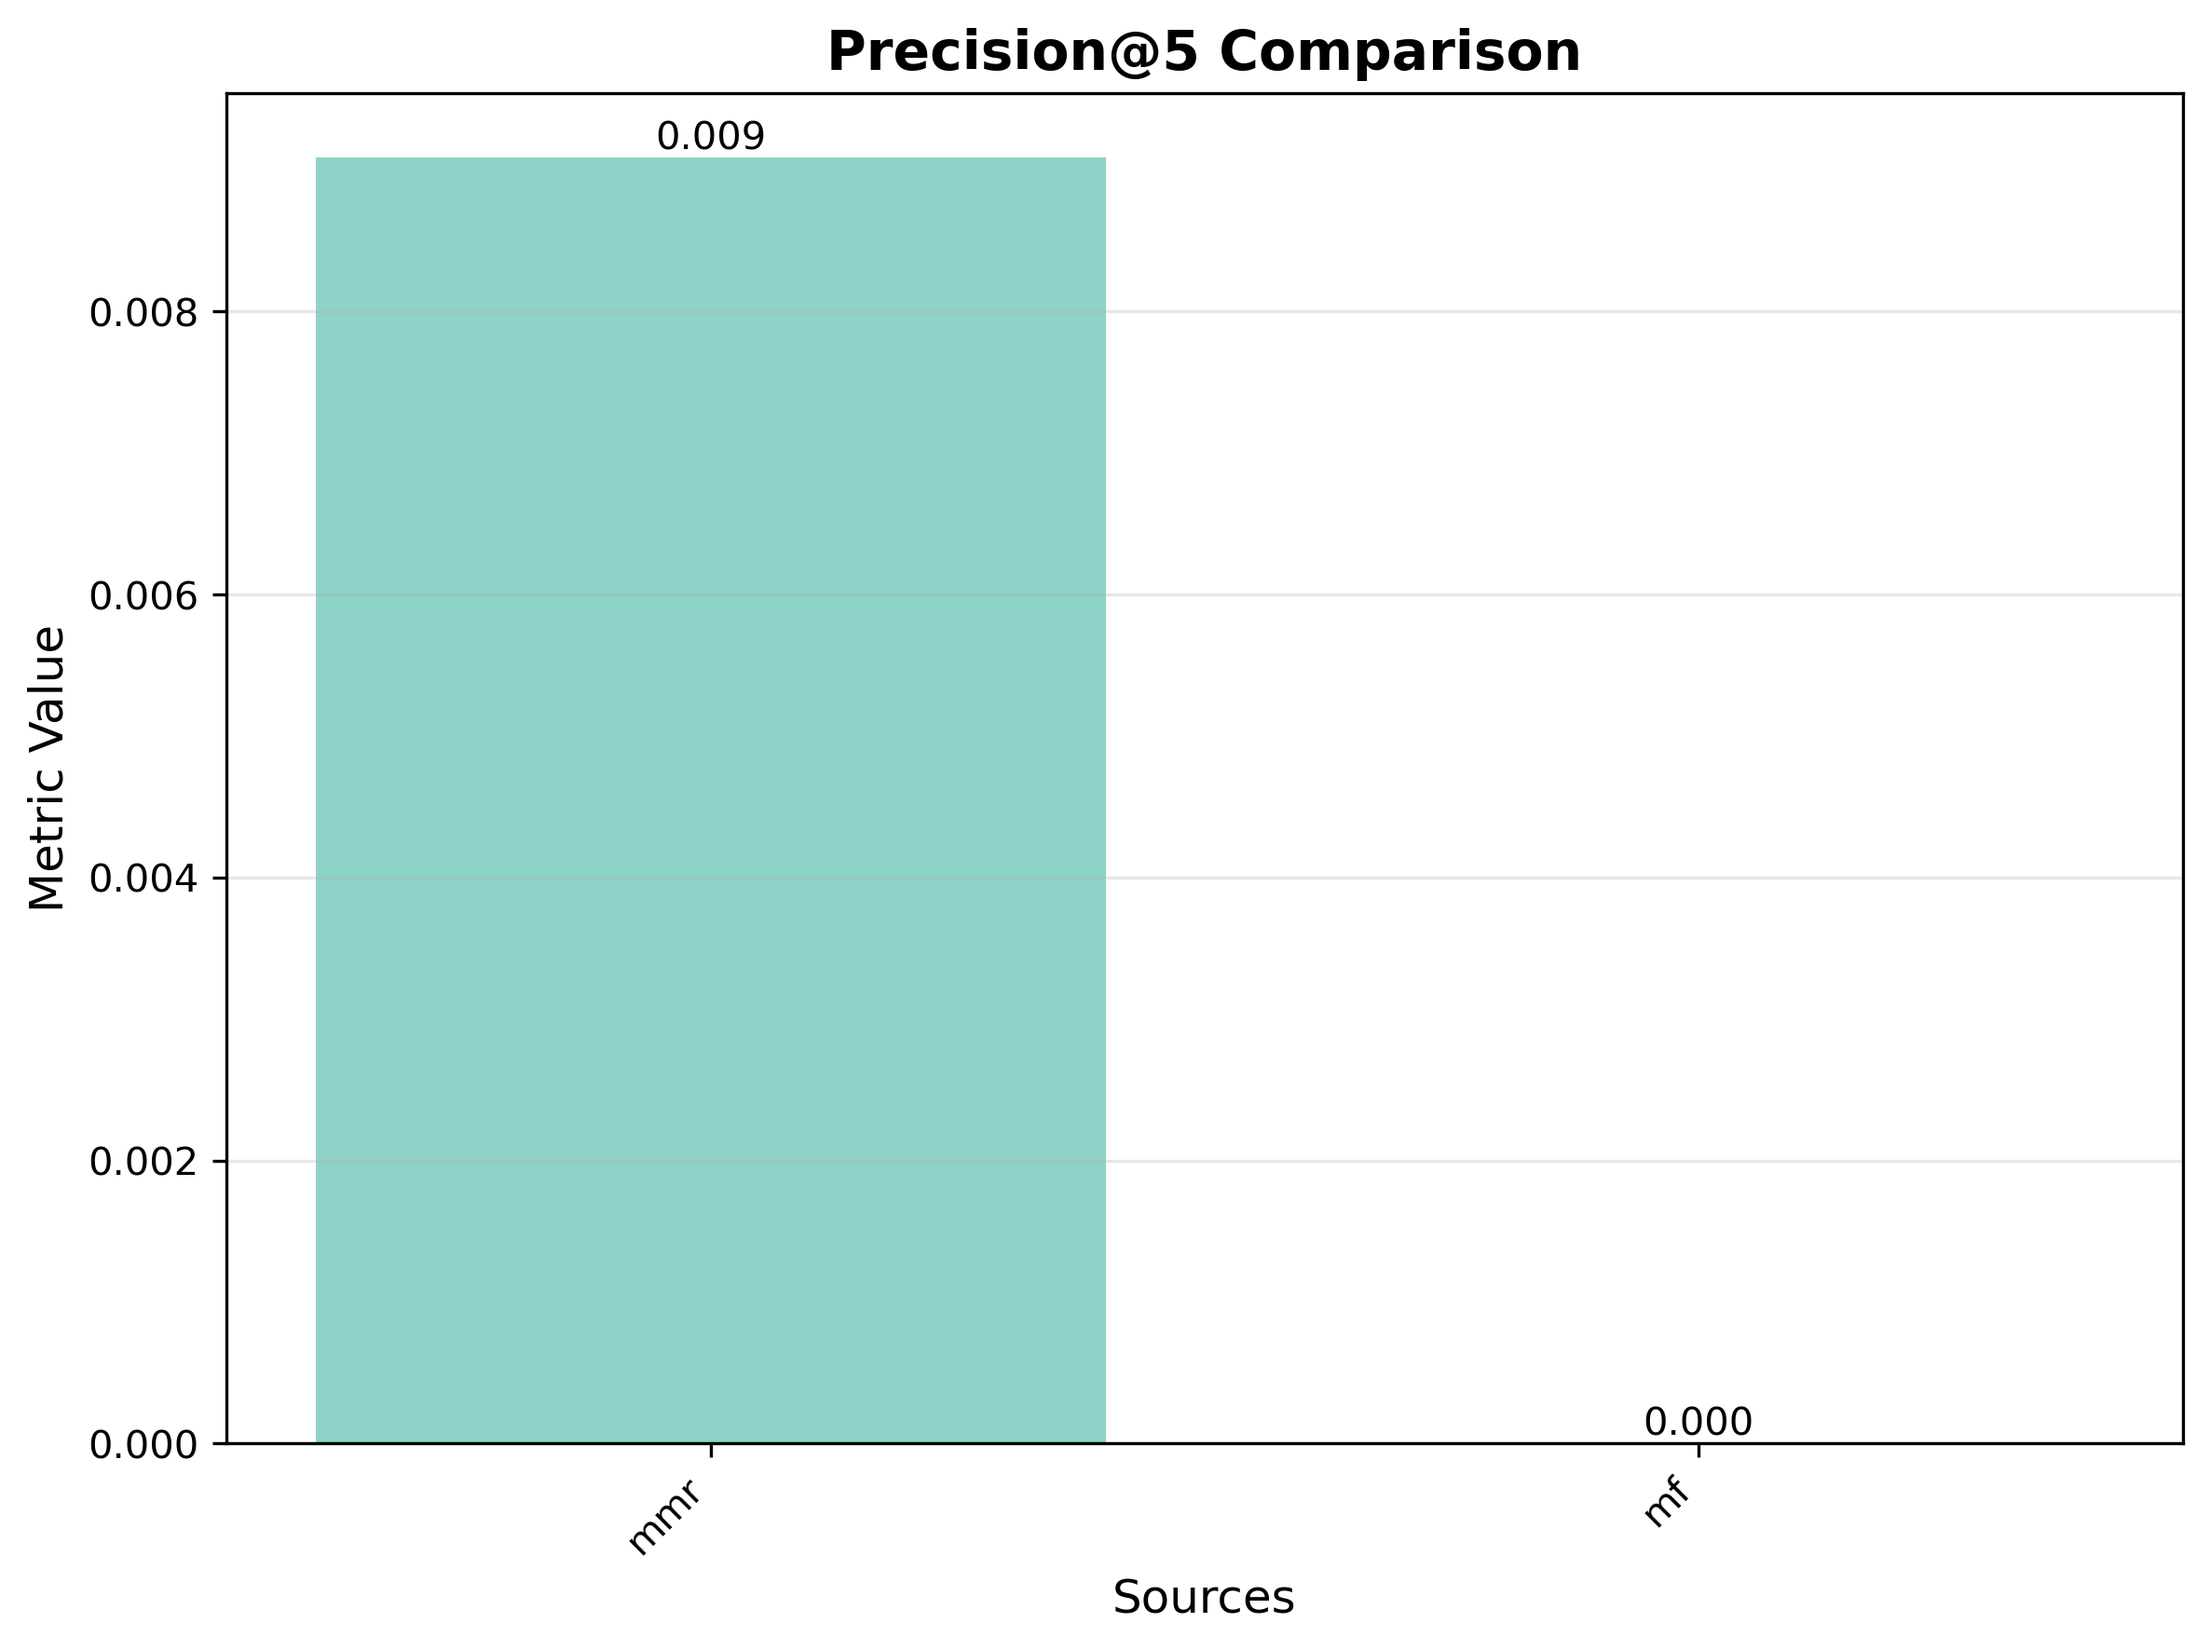
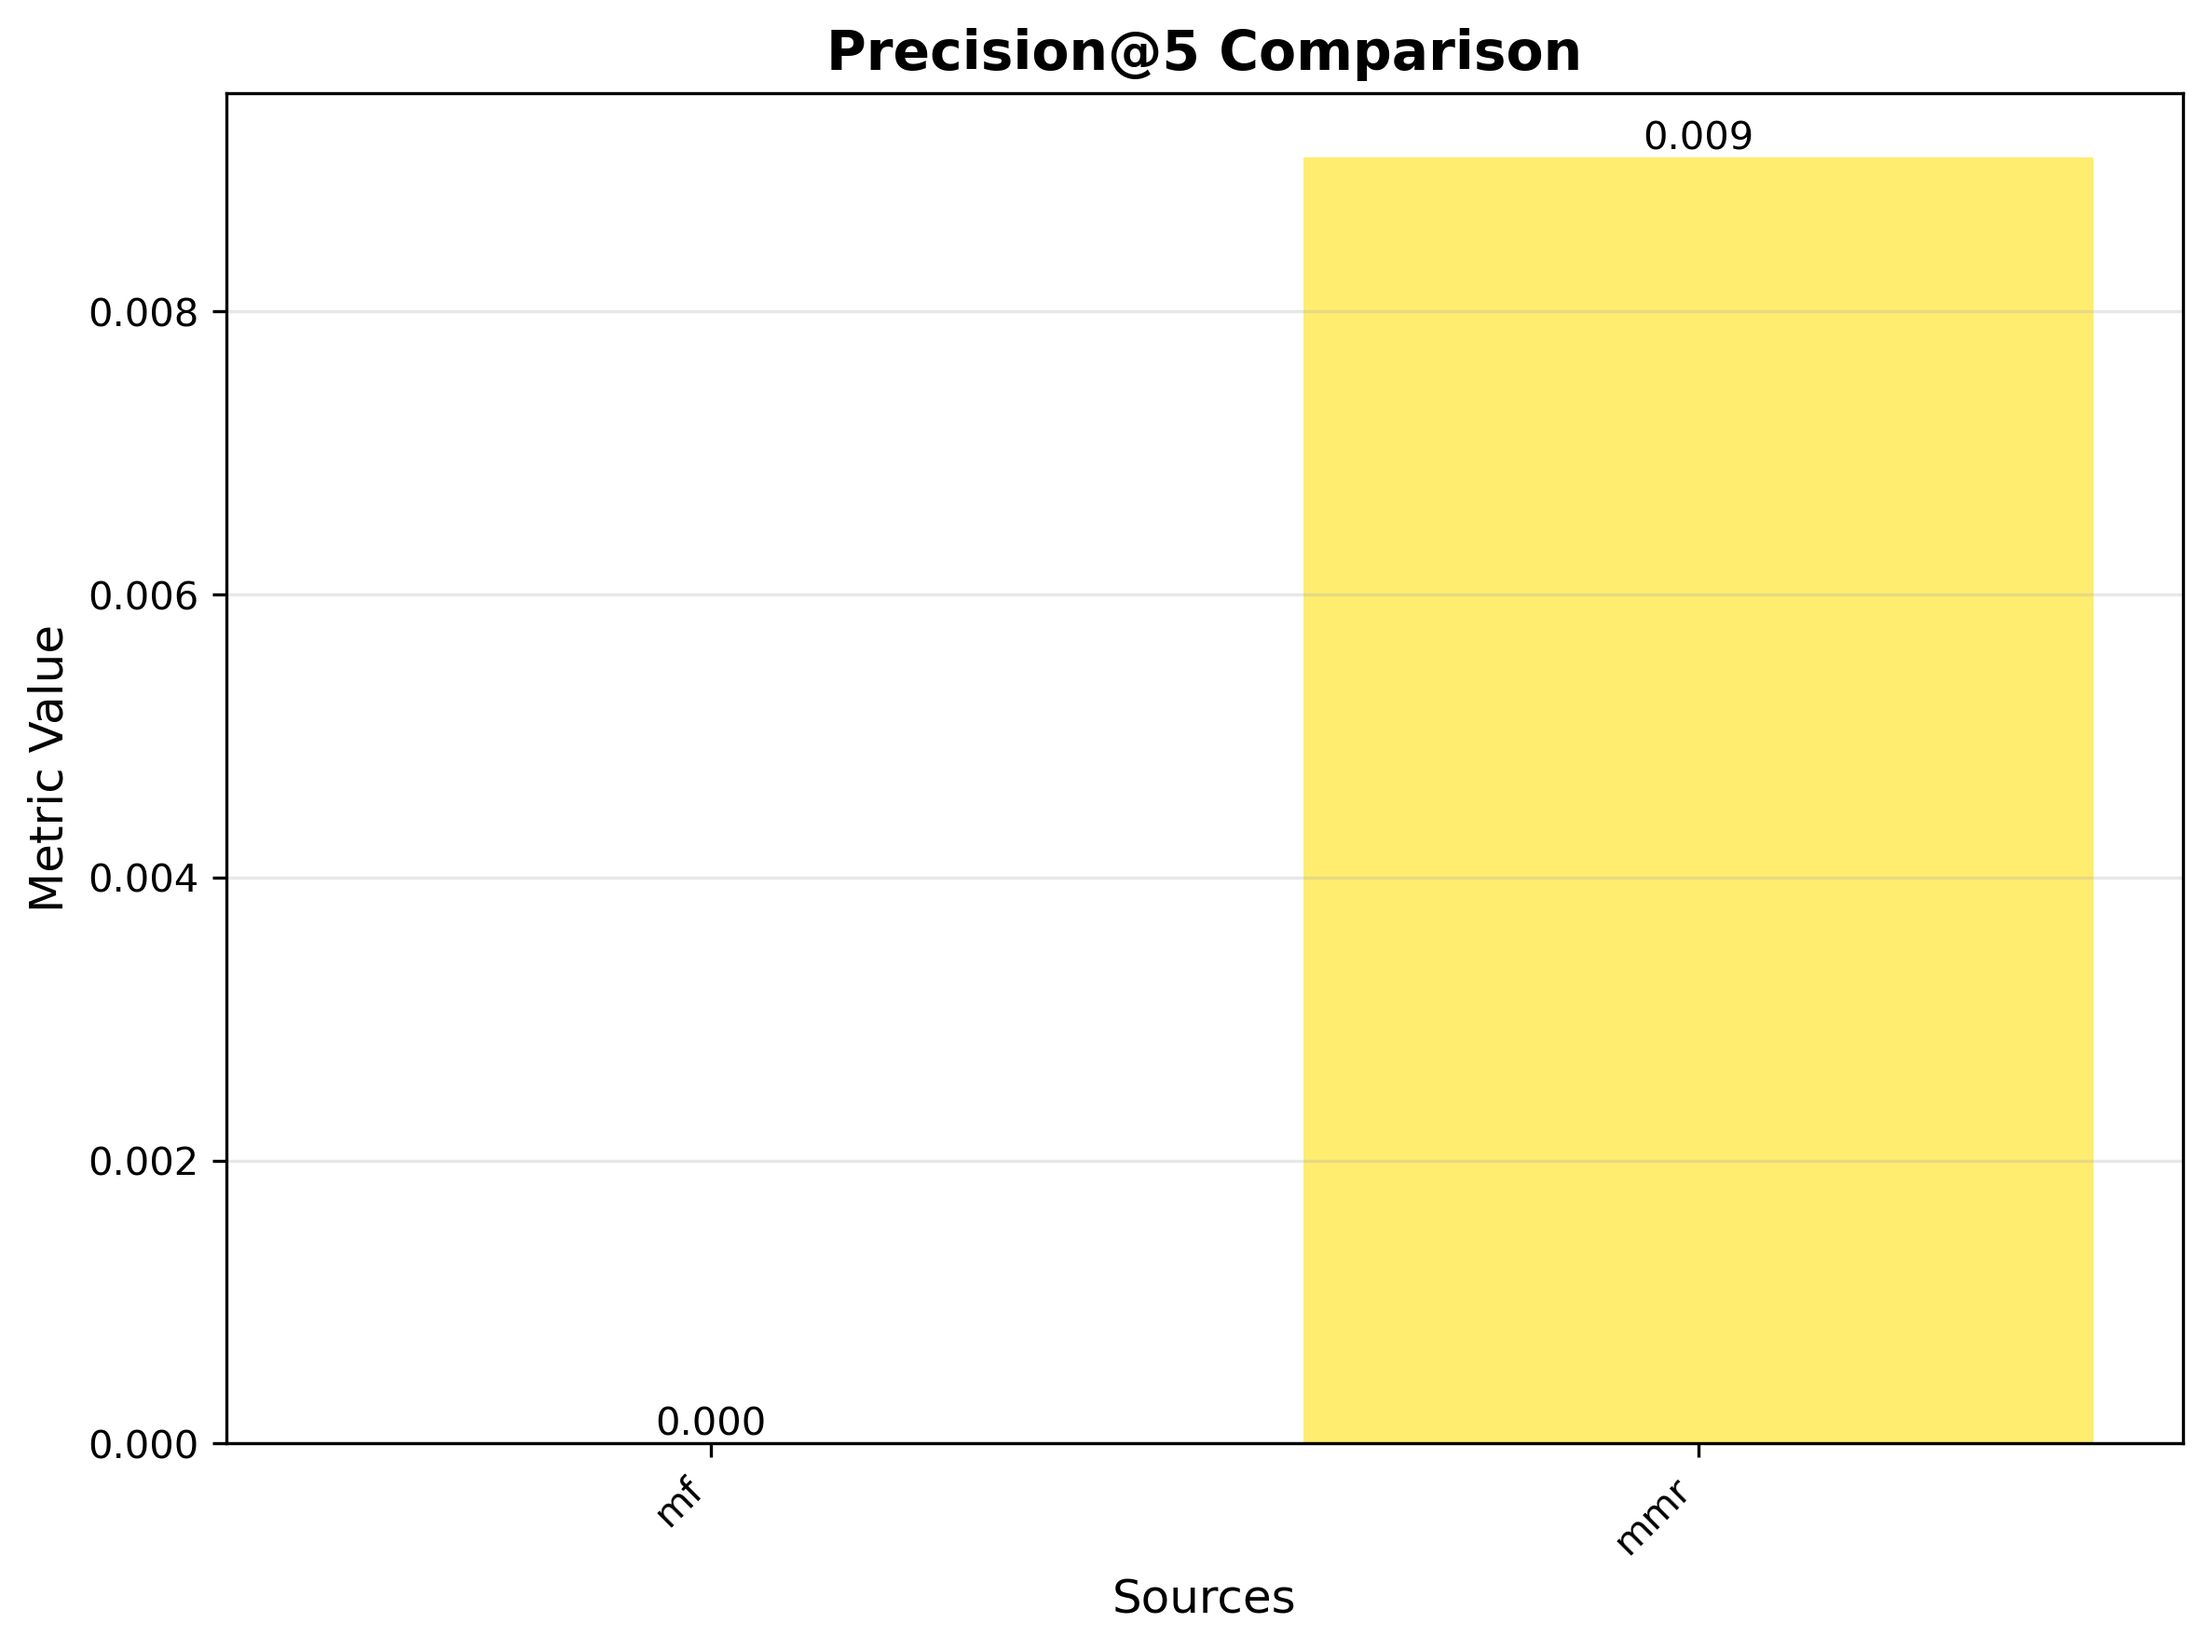
ready for data from deep learning

diff --git a/src/evaluation/MetricsReporter2.py b/src/evaluation/MetricsReporter2.py
@@ -276,9 +276,11 @@ if __name__ == "__main__":
     # Models to compare
     MODELS = [
         # (r"C:\Users\Jacob\Documents\GitHub\P5\src\datasets\mmr_data\test_predictions.csv", "Test"),
-        (r"C:\Users\Jacob\Documents\GitHub\P5\src\datasets\mmr_data\movie\aligned_mmr_train_cosine_test_recommendations.csv", "mmr"),
         (r"C:\Users\Jacob\Documents\GitHub\P5\src\datasets\mmr_data\movie\ALIGNED_mf_test_predictions.csv",
          "mf"),
+        (
+        r"C:\Users\Jacob\Documents\GitHub\P5\src\datasets\mmr_data\movie\aligned_mmr_train_cosine_test_recommendations.csv",
+        "mmr"),
         # Add more models: (predictions_path, model_name)
     ]
 
